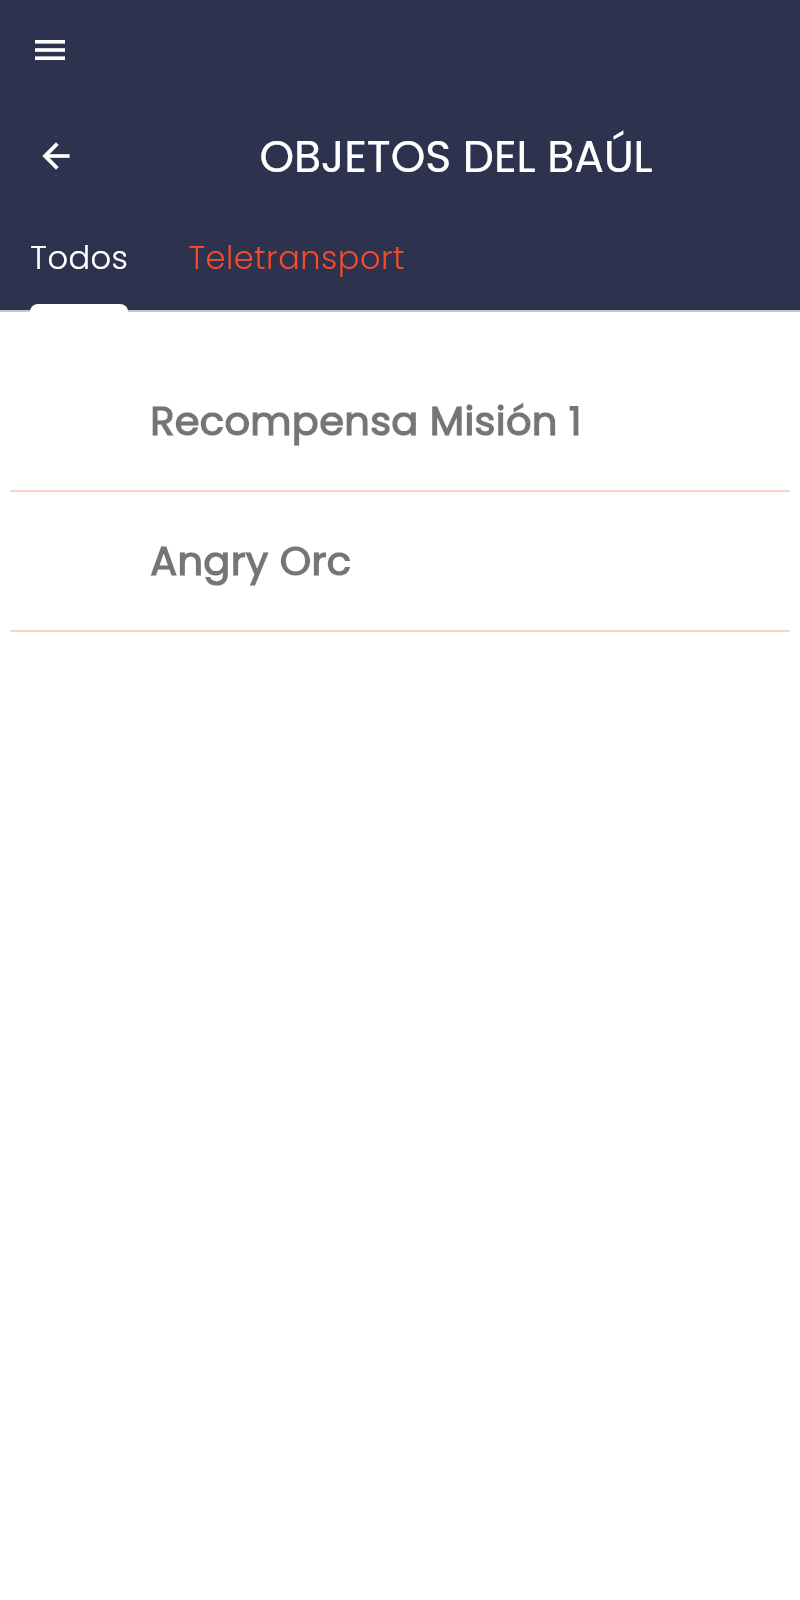
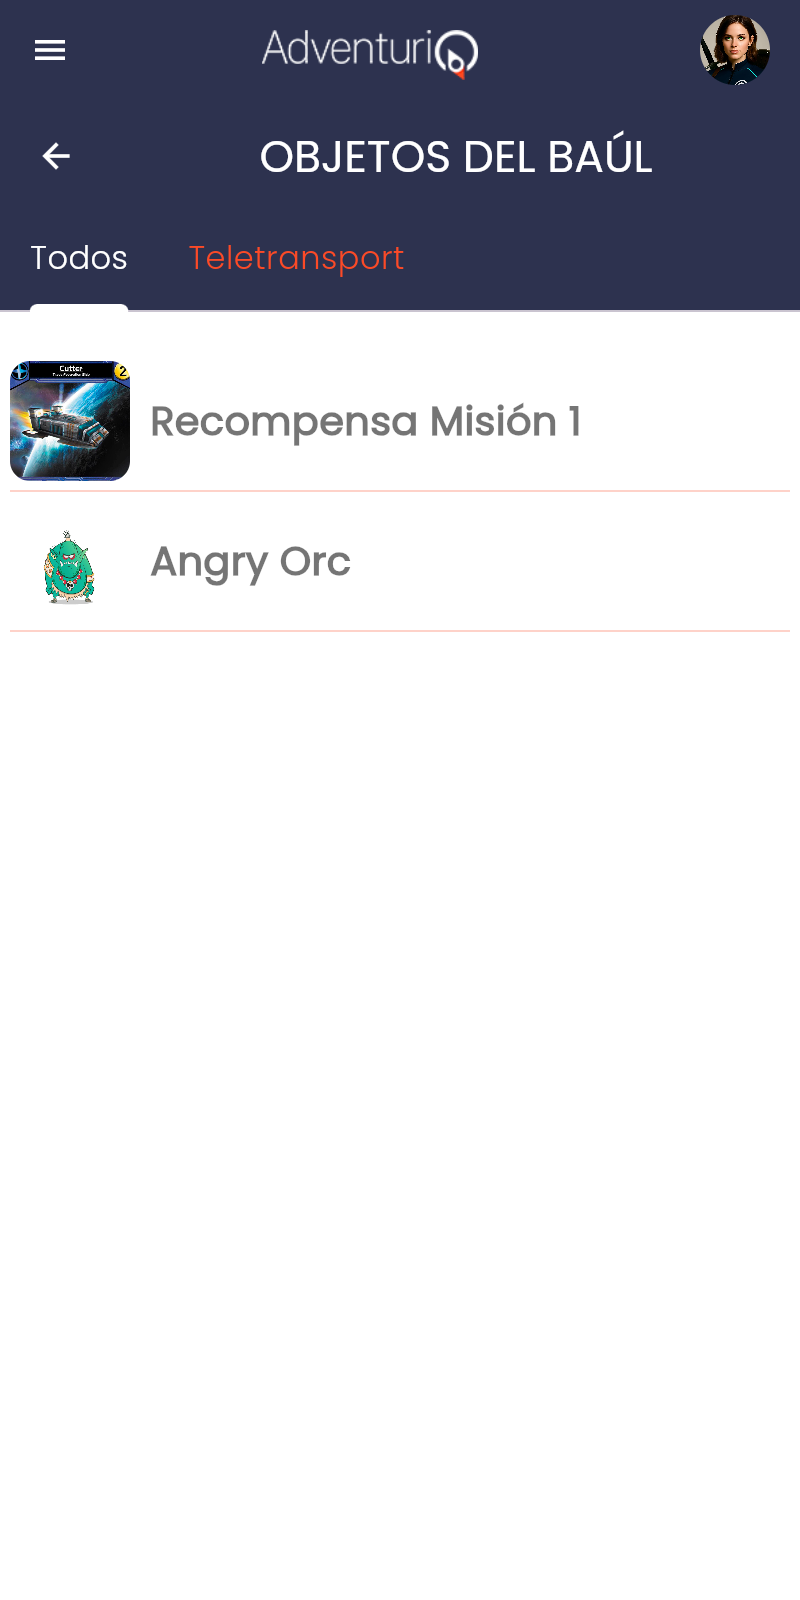
Reajuste de imágenes en Conceptos básicos (capturas Webapp)

diff --git a/scripts/capture-template.js b/scripts/capture-template.js
@@ -36,7 +36,9 @@
  *
  *   GENERAL:
  *   - Usar --no-sandbox --disable-setuid-sandbox siempre
- *   - Usar --use-gl=swiftshader para renderizar canvas de Flutter
+ *   - NO usar --use-gl=swiftshader — bloquea la renderización de imágenes
+ *     remotas (avatares, logos, imágenes de objetos) en Flutter.
+ *     Dejar sin flag GL o usar --use-gl=angle --use-angle=swiftshader-webgl.
  *   - Usar --lang=es-ES como argumento de launch para el navegador
  *   - Esperas: 5s tras navegación, 8-10s tras login, 3-5s tras clicks
  *   - Las imágenes se guardan directamente en static/img/ del repo
@@ -76,7 +78,7 @@ async function launchBrowser() {
     args: [
       '--no-sandbox',
       '--disable-setuid-sandbox',
-      '--use-gl=swiftshader',
+      // NO usar --use-gl=swiftshader: bloquea imágenes remotas en Flutter
       '--lang=es-ES'
     ]
   });
